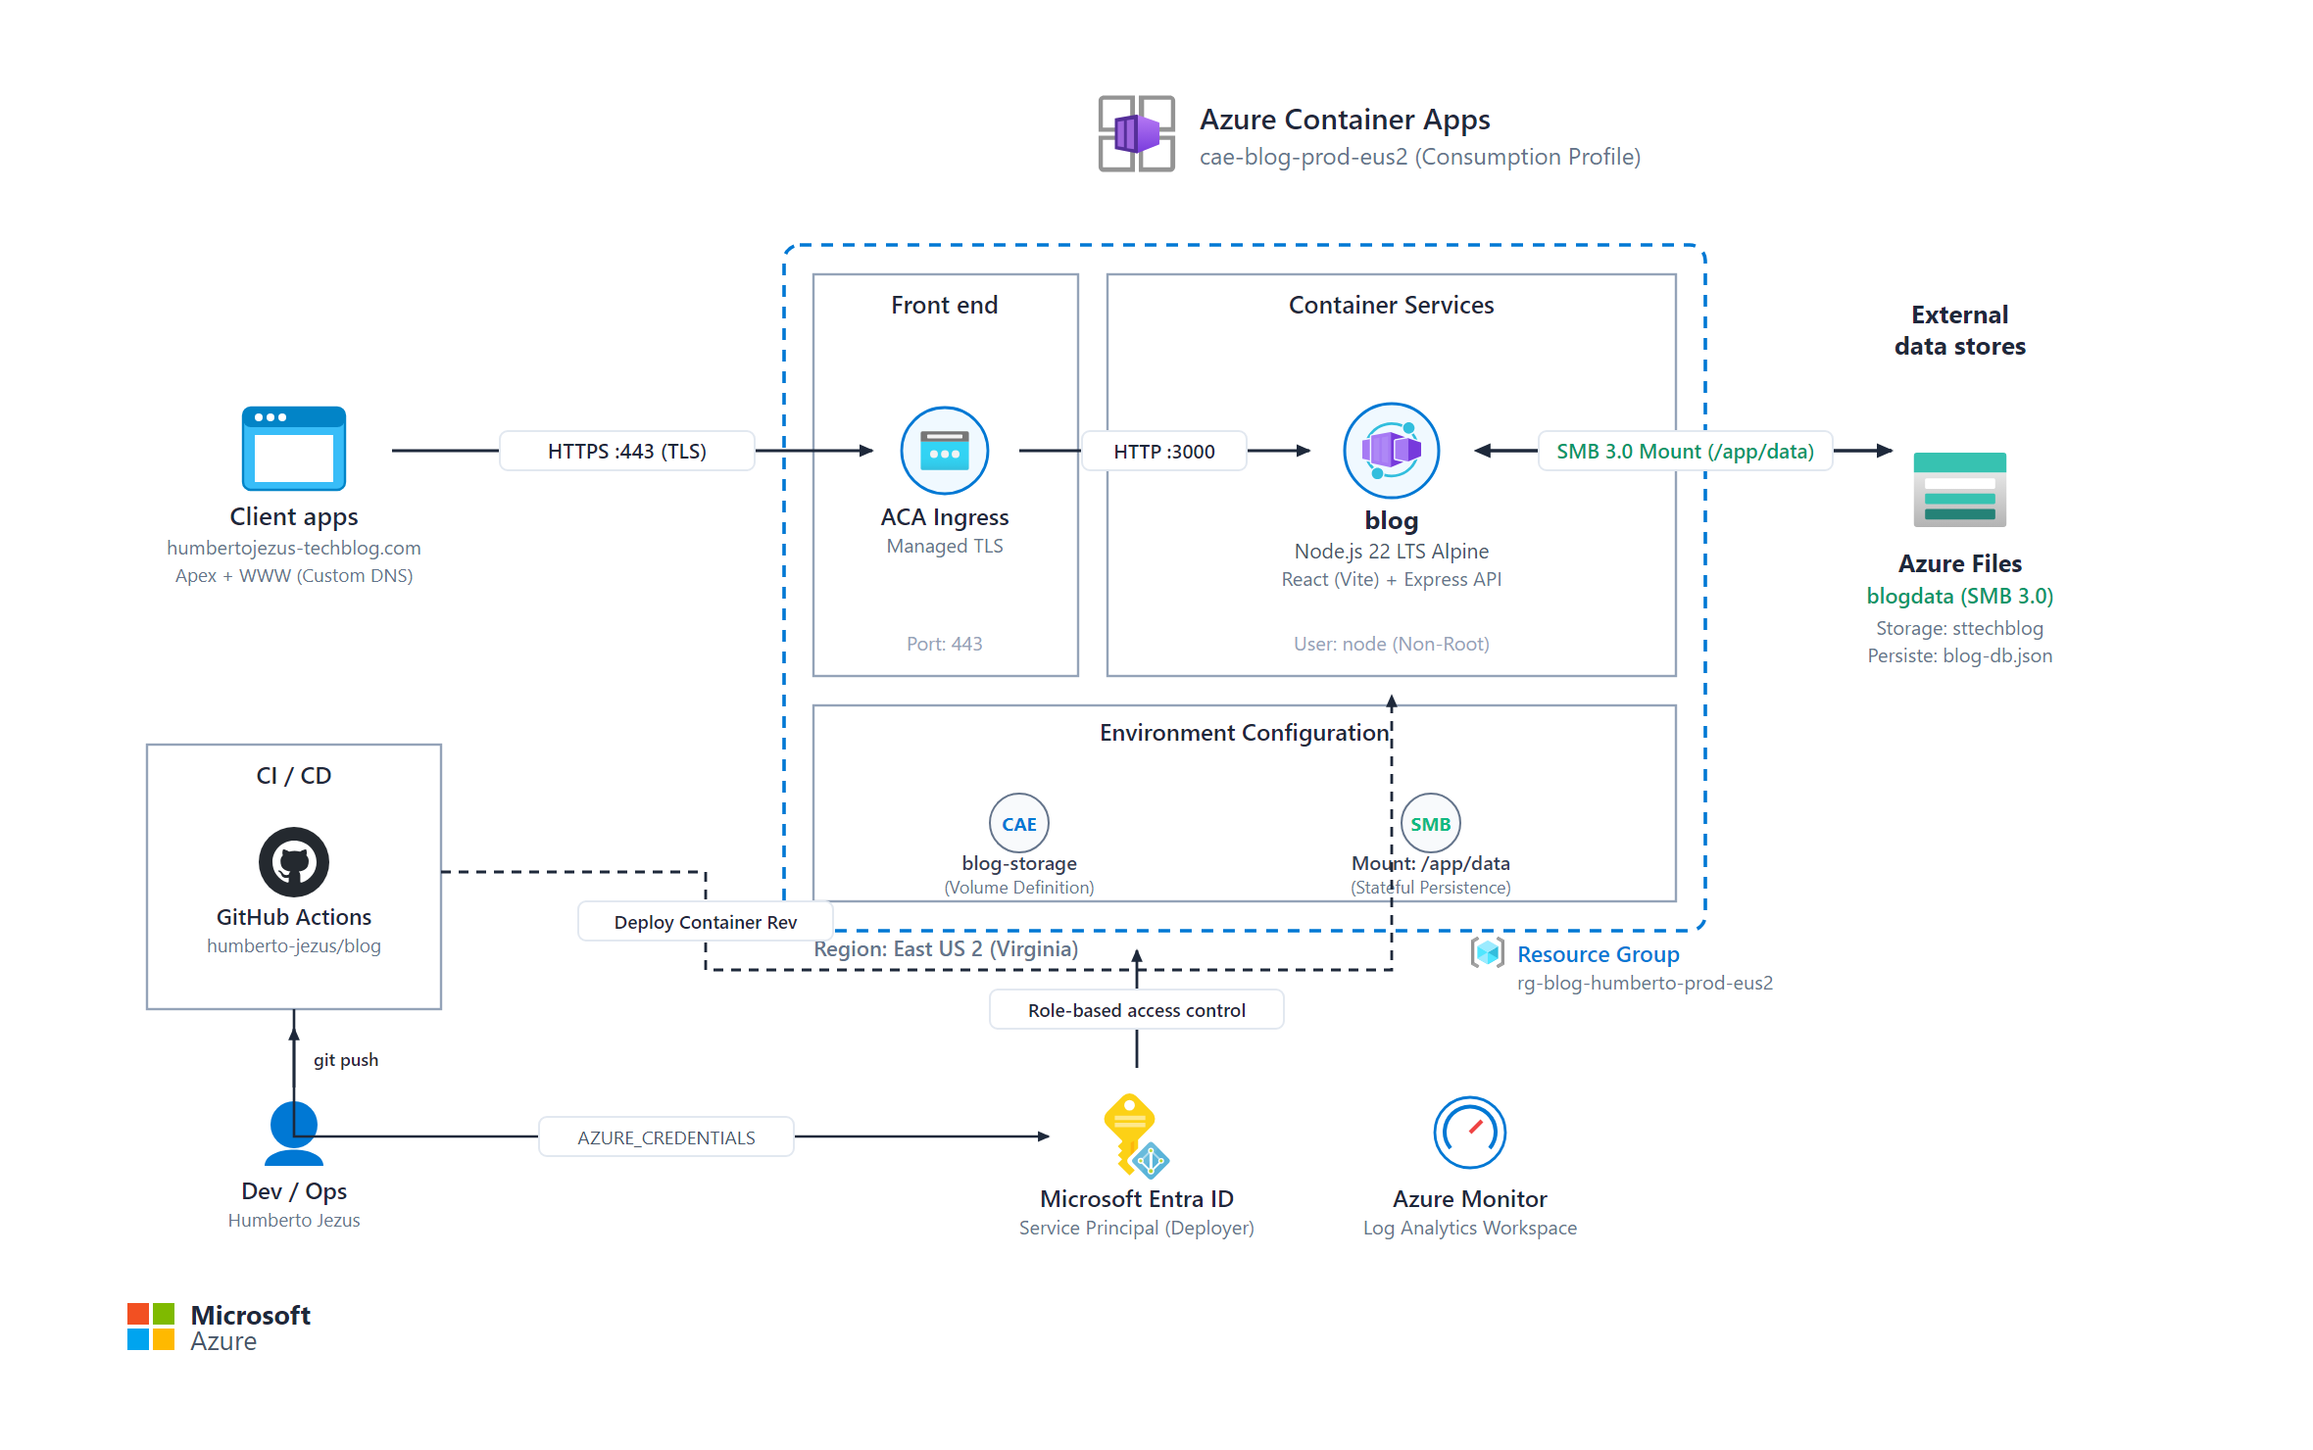
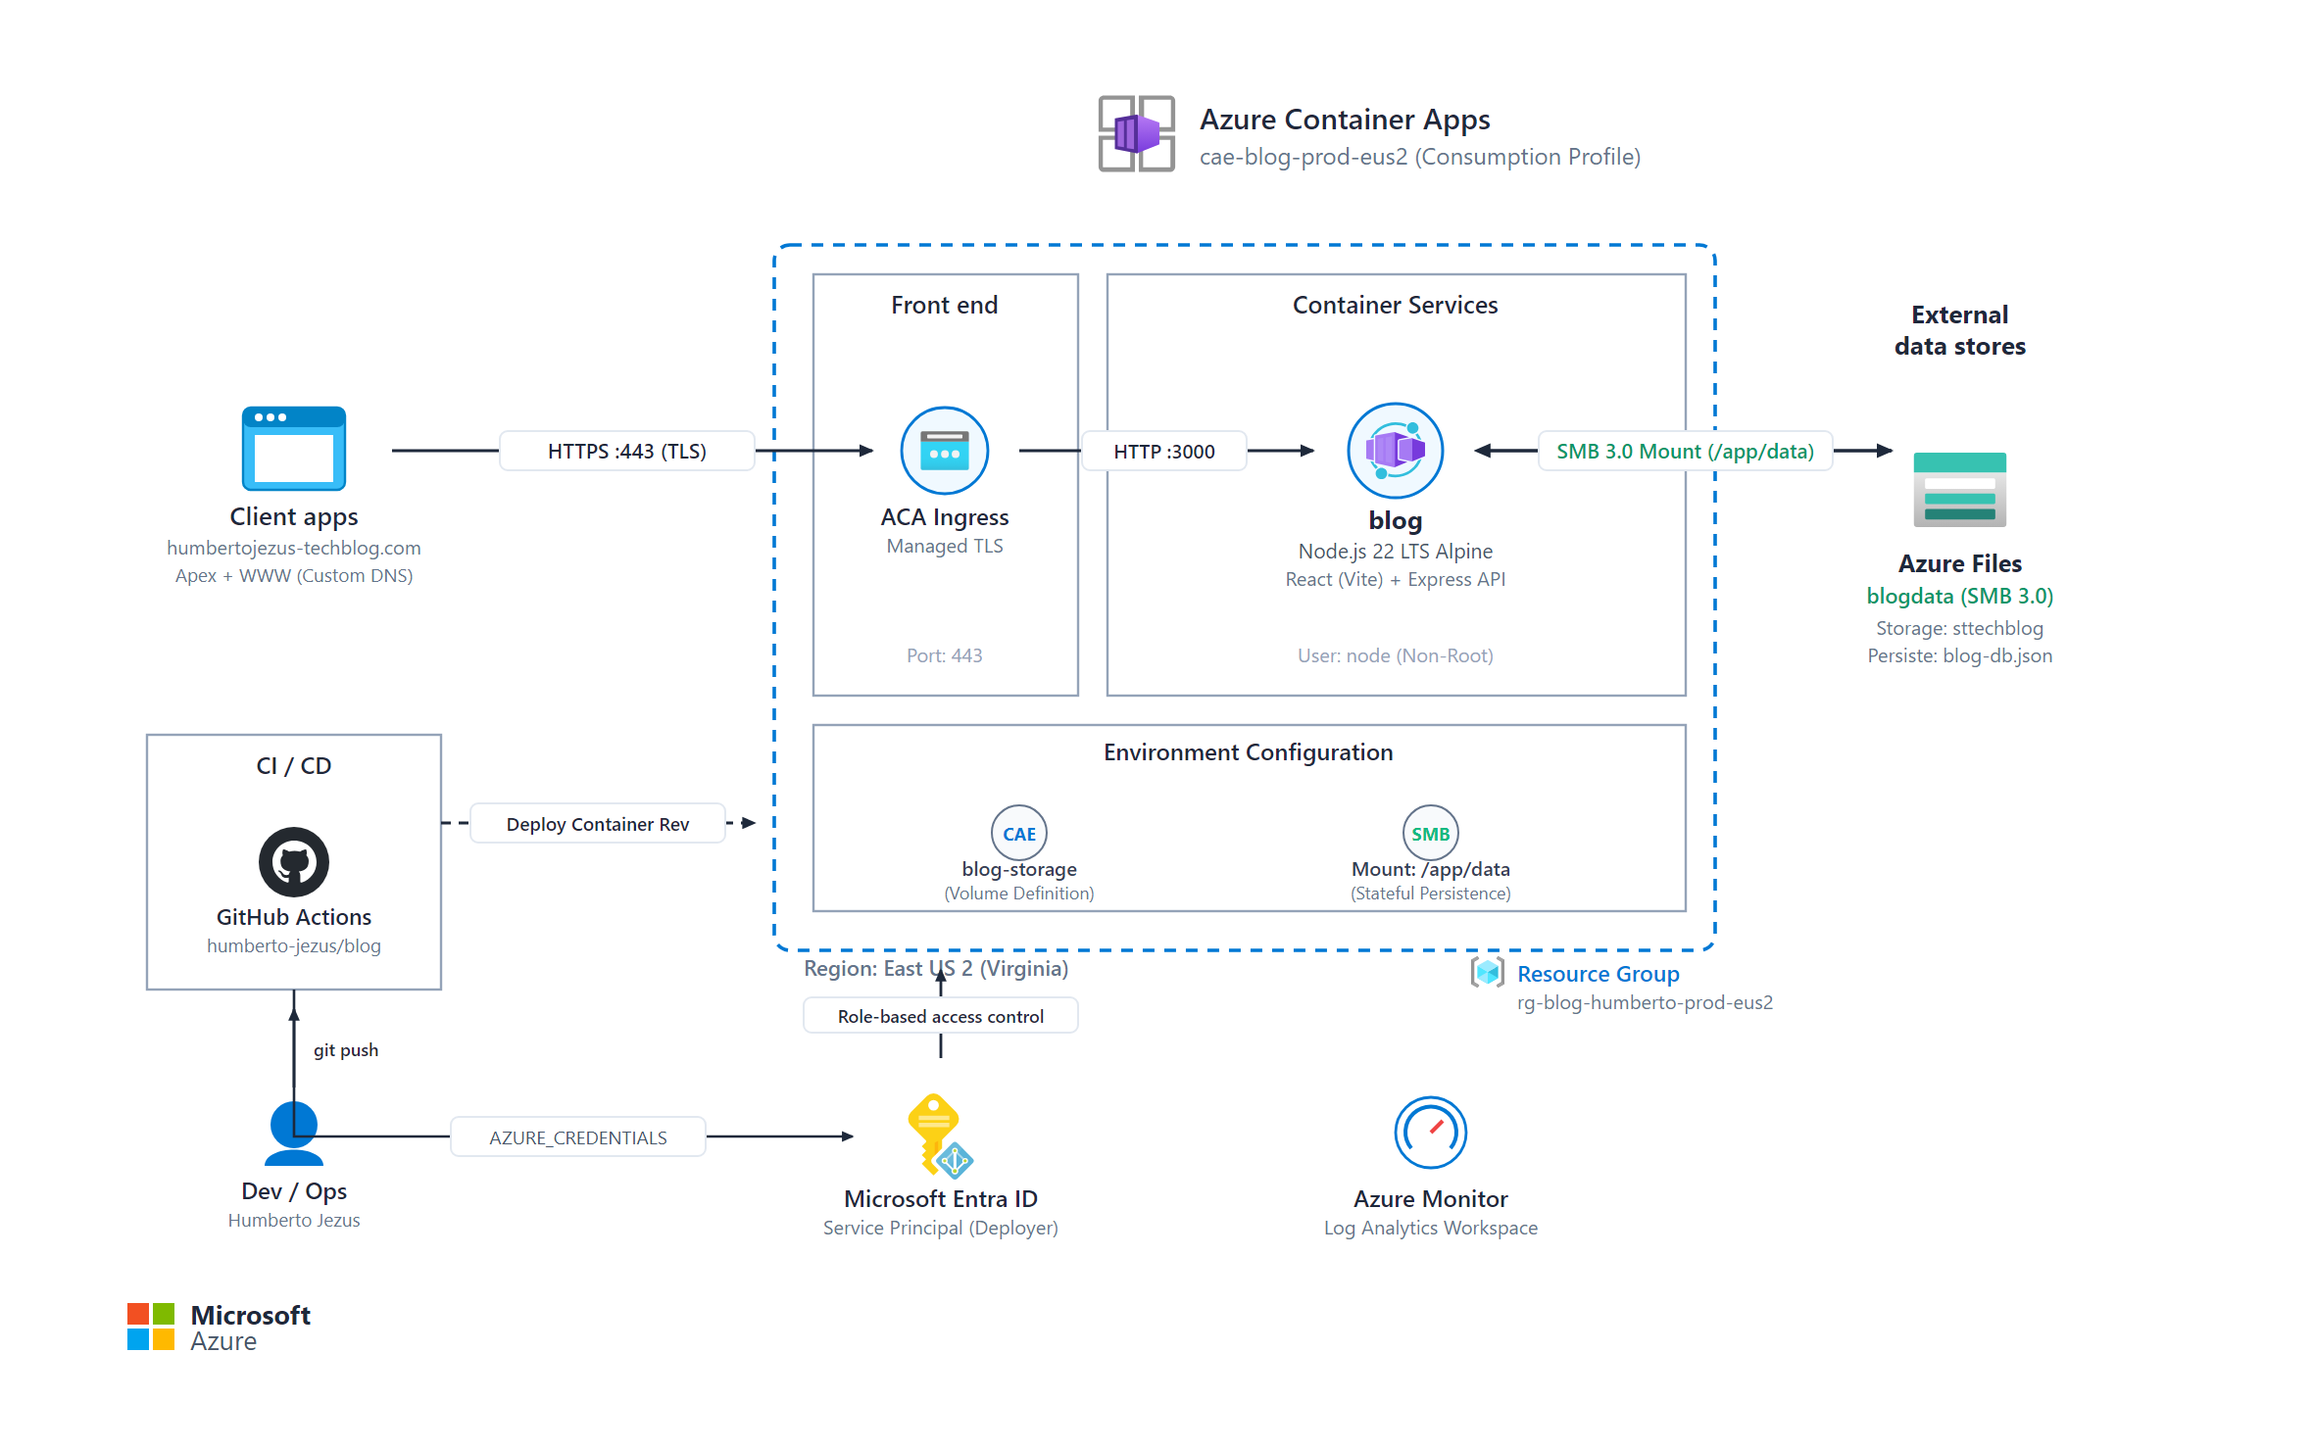
docs: clean up GitHub Actions deployment line to point cleanly into the CAE boundary without crossing

diff --git a/scripts/generate_azure_center_diagram.py b/scripts/generate_azure_center_diagram.py
@@ -21,7 +21,7 @@ icon_rg = get_b64("ResourceGroup.svg")
 icon_ip = get_b64("PublicIpAddresses.svg")
 icon_identity = get_b64("ManagedIdentityUserAssignedIdentities.svg")
 
-# Clean Microsoft Azure Architecture Center template with 100% collision-free routing
+# Clean, professional Microsoft Azure Architecture Center diagram with ZERO crossing lines
 svg_content = f"""<svg xmlns="http://www.w3.org/2000/svg" viewBox="0 0 1140 700" width="1140" height="700" style="background:#ffffff; font-family: Segoe UI, -apple-system, Arial, sans-serif;">
   <defs>
     <!-- Solid Black Arrowhead -->
@@ -43,21 +43,21 @@ svg_content = f"""<svg xmlns="http://www.w3.org/2000/svg" viewBox="0 0 1140 700"
 
   <!-- ================= MAIN ARCHITECTURE BOUNDARY (DASHED BLUE) ================= -->
   <!-- Dashed Container Apps Environment Boundary -->
-  <rect x="380" y="105" width="470" height="350" rx="8" fill="none" stroke="#0078d4" stroke-width="1.8" stroke-dasharray="6,5"/>
+  <rect x="375" y="105" width="480" height="360" rx="8" fill="none" stroke="#0078d4" stroke-width="1.8" stroke-dasharray="6,5"/>
   
   <!-- Boundary Label (Bottom Right) -->
-  <g transform="translate(730, 465)">
+  <g transform="translate(730, 475)">
     <image href="{icon_rg}" x="0" y="-8" width="18" height="18"/>
     <text x="24" y="6" font-size="11.5" font-weight="600" fill="#0078d4">Resource Group</text>
     <text x="24" y="20" font-size="10" fill="#64748b">rg-blog-humberto-prod-eus2</text>
   </g>
 
   <!-- Region Label (Bottom Left) -->
-  <text x="395" y="468" font-size="11" fill="#64748b" font-weight="600">Region: East US 2 (Virginia)</text>
+  <text x="390" y="478" font-size="11" fill="#64748b" font-weight="600">Region: East US 2 (Virginia)</text>
 
 
   <!-- ================= INNER BOX 1: FRONT END / INGRESS ================= -->
-  <rect x="395" y="120" width="135" height="205" fill="none" stroke="#94a3b8" stroke-width="1.2"/>
+  <rect x="395" y="120" width="135" height="215" fill="none" stroke="#94a3b8" stroke-width="1.2"/>
   <text x="462" y="140" font-size="12.5" font-weight="600" fill="#1e293b" text-anchor="middle">Front end</text>
 
   <!-- Ingress Icon -->
@@ -67,40 +67,40 @@ svg_content = f"""<svg xmlns="http://www.w3.org/2000/svg" viewBox="0 0 1140 700"
     <text x="0" y="38" font-size="12" font-weight="600" fill="#1e293b" text-anchor="middle">ACA Ingress</text>
     <text x="0" y="52" font-size="10" fill="#64748b" text-anchor="middle">Managed TLS</text>
   </g>
-  <text x="462" y="312" font-size="10" fill="#94a3b8" text-anchor="middle">Port: 443</text>
+  <text x="462" y="318" font-size="10" fill="#94a3b8" text-anchor="middle">Port: 443</text>
 
 
   <!-- ================= INNER BOX 2: CONTAINER SERVICES ================= -->
-  <rect x="545" y="120" width="290" height="205" fill="none" stroke="#94a3b8" stroke-width="1.2"/>
-  <text x="690" y="140" font-size="12.5" font-weight="600" fill="#1e293b" text-anchor="middle">Container Services</text>
+  <rect x="545" y="120" width="295" height="215" fill="none" stroke="#94a3b8" stroke-width="1.2"/>
+  <text x="692" y="140" font-size="12.5" font-weight="600" fill="#1e293b" text-anchor="middle">Container Services</text>
 
   <!-- Container App Node -->
-  <g transform="translate(690, 210)">
+  <g transform="translate(692, 210)">
     <circle cx="0" cy="0" r="24" fill="#f0f9ff" stroke="#0078d4" stroke-width="1.5"/>
     <image href="{icon_aca}" x="-15" y="-15" width="30" height="30"/>
     <text x="0" y="40" font-size="13" font-weight="700" fill="#1e293b" text-anchor="middle">blog</text>
     <text x="0" y="55" font-size="10.5" fill="#475569" text-anchor="middle">Node.js 22 LTS Alpine</text>
     <text x="0" y="69" font-size="10" fill="#64748b" text-anchor="middle">React (Vite) + Express API</text>
   </g>
-  <text x="690" y="312" font-size="10" fill="#94a3b8" text-anchor="middle">User: node (Non-Root)</text>
+  <text x="692" y="318" font-size="10" fill="#94a3b8" text-anchor="middle">User: node (Non-Root)</text>
 
 
-  <!-- ================= INNER BOX 3: UTILITY / ENVIRONMENT STORAGE ================= -->
-  <rect x="395" y="340" width="440" height="100" fill="none" stroke="#94a3b8" stroke-width="1.2"/>
-  <text x="615" y="358" font-size="12" font-weight="600" fill="#1e293b" text-anchor="middle">Environment Configuration</text>
+  <!-- ================= INNER BOX 3: ENVIRONMENT CONFIGURATION ================= -->
+  <rect x="395" y="350" width="445" height="95" fill="none" stroke="#94a3b8" stroke-width="1.2"/>
+  <text x="617" y="368" font-size="12" font-weight="600" fill="#1e293b" text-anchor="middle">Environment Configuration</text>
 
-  <g transform="translate(500, 400)">
-    <circle cx="0" cy="0" r="15" fill="#f8fafc" stroke="#64748b" stroke-width="1"/>
-    <text x="0" y="4" font-size="9.5" font-weight="700" fill="#0078d4" text-anchor="middle">CAE</text>
-    <text x="0" y="24" font-size="10" font-weight="600" fill="#334155" text-anchor="middle">blog-storage</text>
-    <text x="0" y="36" font-size="9" fill="#64748b" text-anchor="middle">(Volume Definition)</text>
+  <g transform="translate(500, 405)">
+    <circle cx="0" cy="0" r="14" fill="#f8fafc" stroke="#64748b" stroke-width="1"/>
+    <text x="0" y="4" font-size="9" font-weight="700" fill="#0078d4" text-anchor="middle">CAE</text>
+    <text x="0" y="22" font-size="10" font-weight="600" fill="#334155" text-anchor="middle">blog-storage</text>
+    <text x="0" y="34" font-size="9" fill="#64748b" text-anchor="middle">(Volume Definition)</text>
   </g>
 
-  <g transform="translate(710, 400)">
-    <circle cx="0" cy="0" r="15" fill="#f8fafc" stroke="#64748b" stroke-width="1"/>
-    <text x="0" y="4" font-size="9.5" font-weight="700" fill="#10b981" text-anchor="middle">SMB</text>
-    <text x="0" y="24" font-size="10" font-weight="600" fill="#334155" text-anchor="middle">Mount: /app/data</text>
-    <text x="0" y="36" font-size="9" fill="#64748b" text-anchor="middle">(Stateful Persistence)</text>
+  <g transform="translate(710, 405)">
+    <circle cx="0" cy="0" r="14" fill="#f8fafc" stroke="#64748b" stroke-width="1"/>
+    <text x="0" y="4" font-size="9" font-weight="700" fill="#10b981" text-anchor="middle">SMB</text>
+    <text x="0" y="22" font-size="10" font-weight="600" fill="#334155" text-anchor="middle">Mount: /app/data</text>
+    <text x="0" y="34" font-size="9" fill="#64748b" text-anchor="middle">(Stateful Persistence)</text>
   </g>
 
 
@@ -133,10 +133,11 @@ svg_content = f"""<svg xmlns="http://www.w3.org/2000/svg" viewBox="0 0 1140 700"
   </g>
 
 
-  <!-- ================= BOTTOM-LEFT: CI/CD & DEVOPS ================= -->
-  <!-- CI/CD Box -->
-  <rect x="55" y="360" width="150" height="135" fill="none" stroke="#94a3b8" stroke-width="1.2"/>
-  <text x="130" y="380" font-size="12" font-weight="600" fill="#1e293b" text-anchor="middle">CI / CD</text>
+  <!-- ================= BOTTOM SECTION: CI/CD & IDENTITY (COMPLETELY CLEAN) ================= -->
+  
+  <!-- CI/CD Box on Bottom-Left -->
+  <rect x="55" y="355" width="150" height="130" fill="none" stroke="#94a3b8" stroke-width="1.2"/>
+  <text x="130" y="375" font-size="12" font-weight="600" fill="#1e293b" text-anchor="middle">CI / CD</text>
 
   <!-- GitHub Actions Icon & Label inside Box -->
   <g transform="translate(130, 420)">
@@ -154,17 +155,15 @@ svg_content = f"""<svg xmlns="http://www.w3.org/2000/svg" viewBox="0 0 1140 700"
     <text x="0" y="46" font-size="9.5" fill="#64748b" text-anchor="middle">Humberto Jezus</text>
   </g>
 
-
-  <!-- ================= BOTTOM ROW: IDENTITY & SECURITY ================= -->
-  <!-- Microsoft Entra ID (Service Principal) -->
-  <g transform="translate(560, 560)">
+  <!-- Microsoft Entra ID (Service Principal) at (460, 560) -->
+  <g transform="translate(460, 560)">
     <image href="{icon_identity}" x="-22" y="-22" width="44" height="44"/>
     <text x="0" y="36" font-size="12" font-weight="600" fill="#1e293b" text-anchor="middle">Microsoft Entra ID</text>
     <text x="0" y="50" font-size="10" fill="#64748b" text-anchor="middle">Service Principal (Deployer)</text>
   </g>
 
-  <!-- Azure Monitor -->
-  <g transform="translate(730, 560)">
+  <!-- Azure Monitor at (710, 560) -->
+  <g transform="translate(710, 560)">
     <circle cx="0" cy="-2" r="18" fill="#ffffff" stroke="#0078d4" stroke-width="1.4"/>
     <path d="M-10 6 A13 13 0 1 1 10 6" stroke="#0078d4" stroke-width="2" fill="none"/>
     <line x1="0" y1="-2" x2="6" y2="-8" stroke="#ef4444" stroke-width="2"/>
@@ -173,53 +172,54 @@ svg_content = f"""<svg xmlns="http://www.w3.org/2000/svg" viewBox="0 0 1140 700"
   </g>
 
 
-  <!-- ================= ZERO-COLLISION CONNECTING ARROWS ================= -->
+  <!-- ================= 100% PURE, DIRECT, NON-CROSSING ARROWS ================= -->
 
-  <!-- 1. Client apps -> Ingress (Clean horizontal with opaque background pill) -->
+  <!-- 1. Client apps -> Ingress (Straight horizontal line on y=210) -->
   <line x1="180" y1="210" x2="425" y2="210" stroke="#1e293b" stroke-width="1.6" marker-end="url(#ms-arrow)"/>
   <g transform="translate(300, 210)">
     <rect x="-65" y="-10" width="130" height="20" rx="4" fill="#ffffff" stroke="#e2e8f0" stroke-width="1"/>
     <text x="0" y="4" font-size="10.5" font-weight="600" fill="#1e293b" text-anchor="middle">HTTPS :443 (TLS)</text>
   </g>
 
-  <!-- 2. Ingress -> blog (Clean horizontal with opaque pill) -->
-  <line x1="500" y1="210" x2="648" y2="210" stroke="#1e293b" stroke-width="1.6" marker-end="url(#ms-arrow)"/>
+  <!-- 2. Ingress -> blog (Straight horizontal line on y=210) -->
+  <line x1="500" y1="210" x2="650" y2="210" stroke="#1e293b" stroke-width="1.6" marker-end="url(#ms-arrow)"/>
   <g transform="translate(574, 210)">
     <rect x="-42" y="-10" width="84" height="20" rx="4" fill="#ffffff" stroke="#e2e8f0" stroke-width="1"/>
     <text x="0" y="4" font-size="10" font-weight="600" fill="#1e293b" text-anchor="middle">HTTP :3000</text>
   </g>
 
-  <!-- 3. blog <===> Azure Files (Clean horizontal with opaque pill) -->
+  <!-- 3. blog <===> Azure Files (Straight horizontal line on y=210) -->
   <line x1="735" y1="210" x2="945" y2="210" stroke="#1e293b" stroke-width="1.8" marker-end="url(#ms-arrow)" marker-start="url(#ms-arrow-start)"/>
   <g transform="translate(840, 210)">
     <rect x="-75" y="-10" width="150" height="20" rx="4" fill="#ffffff" stroke="#e2e8f0" stroke-width="1"/>
     <text x="0" y="4" font-size="10.5" font-weight="600" fill="#059669" text-anchor="middle">SMB 3.0 Mount (/app/data)</text>
   </g>
 
-  <!-- 4. Dev/Ops -> GitHub Actions (Push) -->
-  <line x1="130" y1="535" x2="130" y2="505" stroke="#1e293b" stroke-width="1.4" marker-end="url(#ms-arrow)"/>
-  <rect x="138" y="513" width="50" height="15" fill="#ffffff"/>
-  <text x="140" y="524" font-size="9" font-weight="600" fill="#1e293b">git push</text>
+  <!-- 4. Dev/Ops -> GitHub Actions (Straight vertical line) -->
+  <line x1="130" y1="535" x2="130" y2="495" stroke="#1e293b" stroke-width="1.4" marker-end="url(#ms-arrow)"/>
+  <rect x="138" y="508" width="52" height="15" fill="#ffffff"/>
+  <text x="140" y="519" font-size="9" font-weight="600" fill="#1e293b">git push</text>
 
-  <!-- 5. GitHub Actions -> Entra ID (Auth line - completely routed around other elements) -->
-  <path d="M 130 495 L 130 560 L 515 560" fill="none" stroke="#1e293b" stroke-width="1.3" marker-end="url(#ms-arrow)"/>
-  <g transform="translate(320, 560)">
+  <!-- 5. GitHub Actions -> Container Apps Environment (CLEAN DIRECT HORIZONTAL LINE INTO BOUNDARY at y=400) -->
+  <!-- No long diagonal line, no crossing other boxes! Points straight into the CAE boundary! -->
+  <line x1="205" y1="400" x2="365" y2="400" stroke="#1e293b" stroke-width="1.5" stroke-dasharray="5,4" marker-end="url(#ms-arrow)"/>
+  <g transform="translate(285, 400)">
+    <rect x="-65" y="-10" width="130" height="20" rx="4" fill="#ffffff" stroke="#e2e8f0" stroke-width="1"/>
+    <text x="0" y="4" font-size="9.5" font-weight="600" fill="#1e293b" text-anchor="middle">Deploy Container Rev</text>
+  </g>
+
+  <!-- 6. GitHub Actions -> Entra ID (Clean L-route along the bottom) -->
+  <path d="M 130 485 L 130 560 L 415 560" fill="none" stroke="#1e293b" stroke-width="1.3" marker-end="url(#ms-arrow)"/>
+  <g transform="translate(275, 560)">
     <rect x="-65" y="-10" width="130" height="20" rx="4" fill="#ffffff" stroke="#e2e8f0" stroke-width="1"/>
     <text x="0" y="4" font-size="9.5" fill="#475569" text-anchor="middle">AZURE_CREDENTIALS</text>
   </g>
 
-  <!-- 6. Entra ID -> Resource Group (Role Assignment - clean vertical line into RG bottom edge) -->
-  <line x1="560" y1="525" x2="560" y2="465" stroke="#1e293b" stroke-width="1.4" marker-end="url(#ms-arrow)"/>
-  <g transform="translate(560, 495)">
-    <rect x="-75" y="-10" width="150" height="20" rx="4" fill="#ffffff" stroke="#e2e8f0" stroke-width="1"/>
-    <text x="0" y="4" font-size="9.5" font-weight="600" fill="#1e293b" text-anchor="middle">Role-based access control</text>
-  </g>
-
-  <!-- 7. GitHub Actions -> Container App (Clean routing along bottom perimeter, entering from below at x=690) -->
-  <path d="M 205 425 L 340 425 L 340 475 L 690 475 L 690 335" fill="none" stroke="#1e293b" stroke-width="1.4" stroke-dasharray="5,4" marker-end="url(#ms-arrow)"/>
-  <g transform="translate(340, 450)">
-    <rect x="-65" y="-10" width="130" height="20" rx="4" fill="#ffffff" stroke="#e2e8f0" stroke-width="1"/>
-    <text x="0" y="4" font-size="9.5" font-weight="600" fill="#1e293b" text-anchor="middle">Deploy Container Rev</text>
+  <!-- 7. Entra ID -> Resource Group (Straight vertical line going up into RG bottom edge) -->
+  <line x1="460" y1="520" x2="460" y2="475" stroke="#1e293b" stroke-width="1.4" marker-end="url(#ms-arrow)"/>
+  <g transform="translate(460, 498)">
+    <rect x="-70" y="-9" width="140" height="18" rx="4" fill="#ffffff" stroke="#e2e8f0" stroke-width="1"/>
+    <text x="0" y="4" font-size="9" font-weight="600" fill="#1e293b" text-anchor="middle">Role-based access control</text>
   </g>
 
 
@@ -273,4 +273,4 @@ shutil.copy2(png_file, os.path.join(art_dir, "azure-blog-architecture.png"))
 if os.path.exists(temp_html):
     os.remove(temp_html)
 
-print("Zero-collision diagram generated successfully!")
+print("Zero-crossing diagram generated successfully!")
